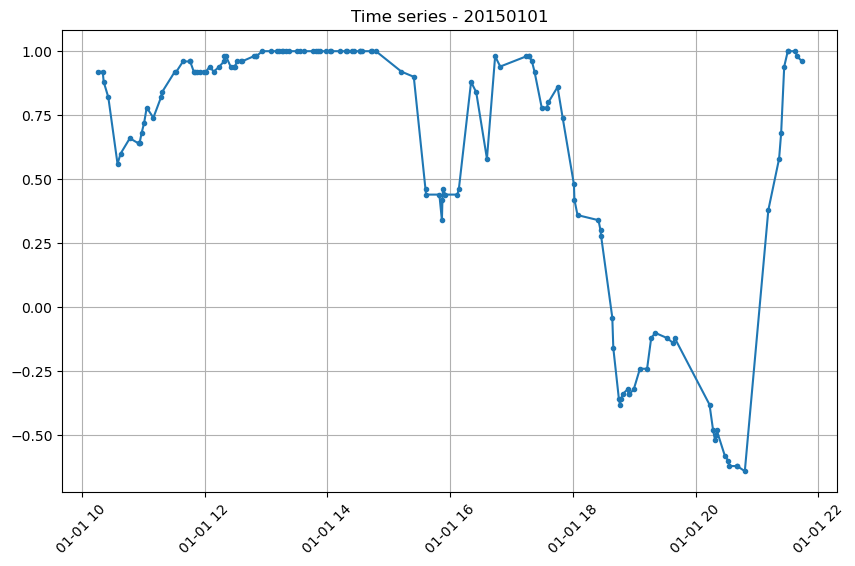
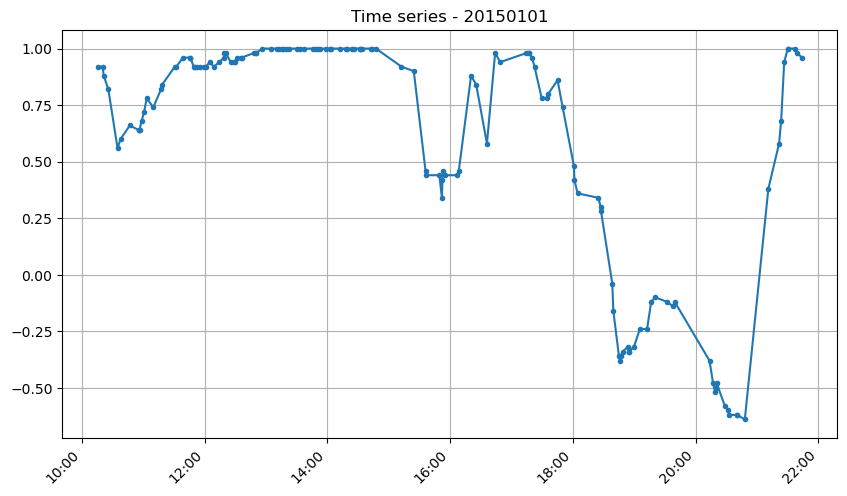
Change x-axis to daily plot

diff --git a/helpers/ts_means.py b/helpers/ts_means.py
@@ -8,6 +8,7 @@ date: 2024-07-16
 
 import pandas as pd
 import matplotlib.pyplot as plt
+from matplotlib.dates import DateFormatter
 
 class Aux():
 
@@ -99,8 +100,14 @@ class Aux():
         '''
         Plot de série temporal
         '''
-        plt.figure(figsize=(10, 6))  # Define o tamanho da figura
-        plt.plot(df['timestamp'], df[varname], linestyle='-',marker='.')
+        fig = plt.figure(figsize=(10, 6))
+        ax = fig.add_subplot(1, 1, 1)
+        ax.plot(df['timestamp'], df[varname], linestyle='-',marker='.')
+        # Se todos os timestamps pertencem ao mesmo dia, alterar o rótulo do eixo x
+        if df['timestamp'].dt.date.nunique() == 1:
+            date_form = DateFormatter("%H:%M")
+            ax.xaxis.set_major_formatter(date_form)
+            fig.autofmt_xdate()
         plt.title(title_str)
         plt.grid(True)
         plt.xticks(rotation=45)

diff --git a/README.md b/README.md
@@ -23,3 +23,5 @@ Script principal (main.py) chama o arquivo de métodos (helpers/ts_means.py, que
 ![](files/ts_h.png)
 
 Os dados utilizados como exemplo vieram originalmente da campanha experimental [GoAmazon](https://www.arm.gov/research/campaigns/amf2014goamazon). Referem-se ao somatório dos valores de fração de cobertura de nuvens finas e espessas (cf) obtidos pelo algoritmo de análise de imagens all sky do equipamento TSI. Esses valores foram normalizados de -1 a 1 e selecionados aleatoriamente para uma amostra significativa, porém de menor tamanho.
+
+Obs.: Se todos os dados/timestamps pertencem ao mesmo dia, o método plot_ts altera o rótulo do eixo x para imprimir no formato HH:MM, em vez de YYYY-MM.
